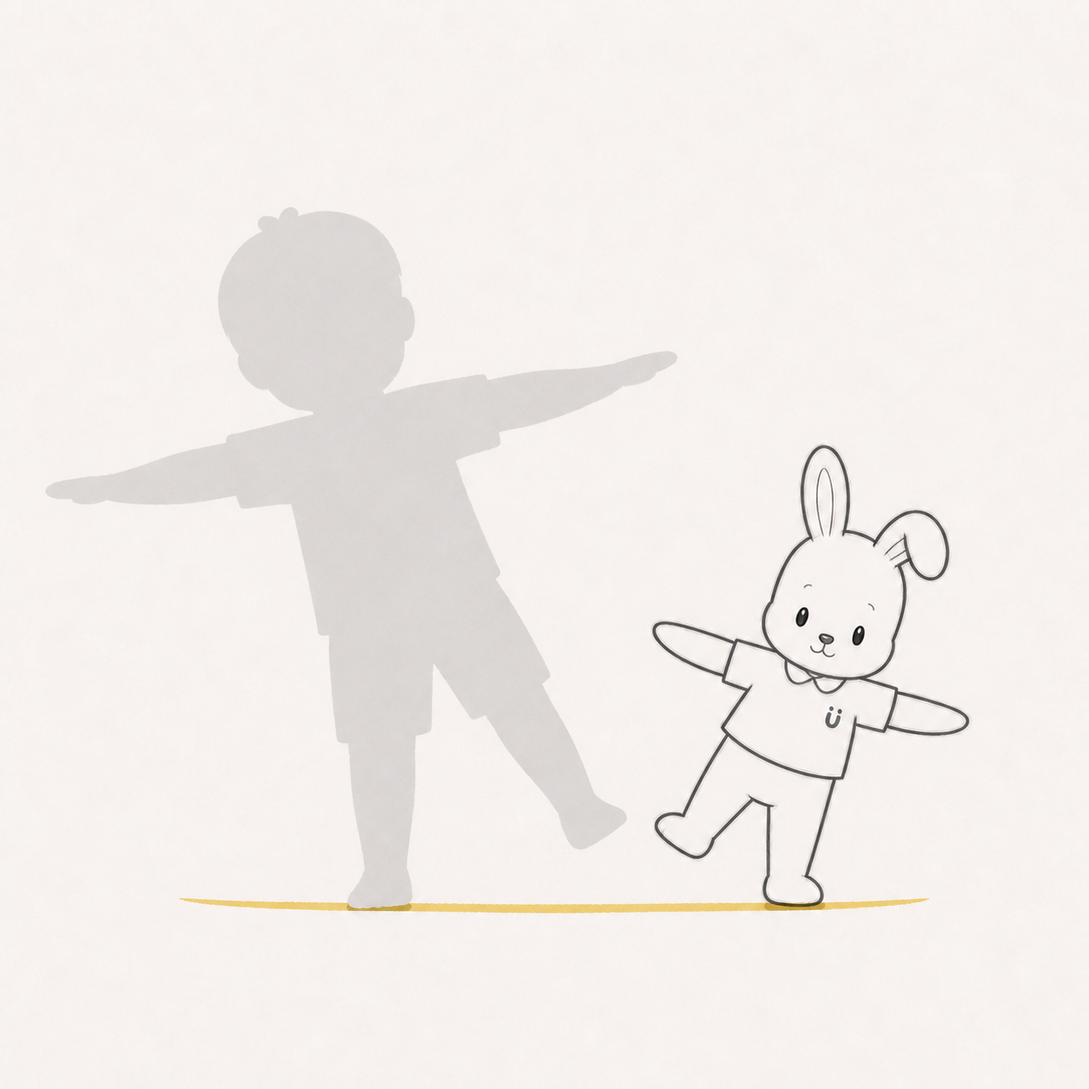
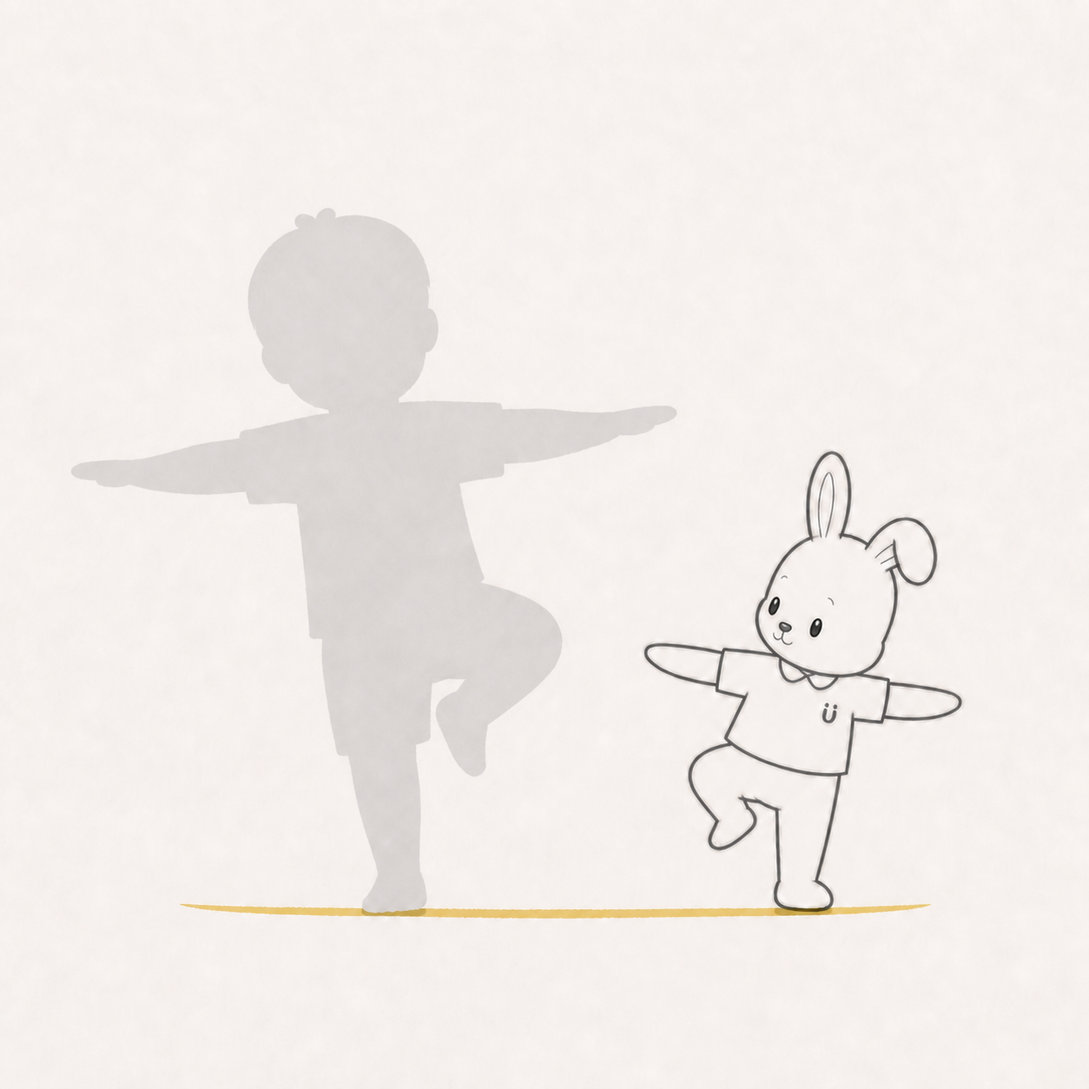
Expand participatory growth milestone scenes

diff --git a/planning/participatory-growth-frames/index.html b/planning/participatory-growth-frames/index.html
@@ -96,15 +96,19 @@
       </div>
       <div class="grid">
         <article><button class="visual"><img src="../participatory-growth-frame-studies/gen-frame-prone-dialogue.png" alt="うつ伏せの子どもと同じ高さで向き合うゲン"></button><div class="content"><span class="kind">LOW VIEW</span><h3>ひくいところで、こんにちは</h3><p class="scene">子どもがうつ伏せになると、ゲンも同じ高さへ。二人の視線が小さなボールで出会います。</p><p class="development"><strong>軽く見る発達</strong>うつ伏せで前腕を支えにする／頭を上げる／目の前の物を見る</p><p class="pose"><strong>写真の姿勢：</strong>うつ伏せ・頭を上げた横向きまたは正面</p></div></article>
+        <article><button class="visual"><img src="../participatory-growth-frame-studies/gen-frame-crawling-chase.png" alt="ハイハイで進む子どもが振り返るゲンを追いかける"></button><div class="content"><span class="role role-together">TOGETHER</span><span class="kind">CRAWL &amp; CHASE</span><h3>まって、ゲン</h3><p class="scene">子どもが手と膝で前へ進むと、ゲンも少し先を低い姿勢で進み、振り返ります。追いつくことより、同じ方向へ動く遊びを残します。</p><p class="development"><strong>二人の間で起きていること</strong>両手と両膝で身体を支える／手足を交互に出して進む／動く相手へ自分から近づく</p><p class="pose"><strong>写真の姿勢：</strong>手と膝を床につき、片膝を前へ出してゲンを見る。大人は撮影側</p></div></article>
         <article><button class="visual"><img src="../participatory-growth-frame-studies/gen-frame-seated-reach.png" alt="座って手を伸ばす子どもへゲンがリボンを返す"></button><div class="content"><span class="kind">REACH</span><h3>ここまで、とどいた</h3><p class="scene">伸ばした手の先へ、ゲンが短いリボンを返します。子どもの腕とゲンの腕が一本の線になります。</p><p class="development"><strong>軽く見る発達</strong>座った姿勢を保つ／斜めへ手を伸ばす／目と手を一緒に使う</p><p class="pose"><strong>写真の姿勢：</strong>座位・片手を斜め上へ伸ばす</p></div></article>
-        <article><button class="visual"><img src="../participatory-growth-frame-studies/gen-frame-balance-mirror.png" alt="片足でバランスをとる子どもとゲン"></button><div class="content"><span class="kind">BALANCE</span><h3>おなじ傾き</h3><p class="scene">子どもの身体の傾きを、ゲンが反対側から小さく返します。二人で一つの天秤になります。</p><p class="development"><strong>軽く見る発達</strong>片足へ体重を移す／腕でバランスをとる／姿勢を調整する</p><p class="pose"><strong>写真の姿勢：</strong>両腕を横へ・片足を少し上げる</p></div></article>
+        <article><button class="visual"><img src="../participatory-growth-frame-studies/gen-frame-balance-mirror.png" alt="子どもの片足立ちを隣でまねるゲン"></button><div class="content"><span class="kind">BALANCE &amp; IMITATE</span><h3>おなじ傾き</h3><p class="scene">子どもが片足を上げて両腕を広げると、ゲンも隣でその形をよく見て、同じ膝と腕の形を小さく返します。</p><p class="development"><strong>軽く見る発達</strong>片足へ体重を移す／腕でバランスをとる／相手の身体の動きを見てまねる</p><p class="pose"><strong>写真の姿勢：</strong>両腕を横へ広げ、片膝を曲げて片足で立つ。大人は撮影側</p></div></article>
         <article><button class="visual"><img src="../participatory-growth-frame-studies/gen-frame-ball-exchange.png" alt="足でボールを送り合う子どもとゲン"></button><div class="content"><span class="kind">BALL</span><h3>そっちへ、どうぞ</h3><p class="scene">子どもの足とゲンの足の間にボールを置き、送る・受け取るの往復をつくります。</p><p class="development"><strong>軽く見る発達</strong>片足で立つ／足を前へ出す／ボールへ足を合わせる</p><p class="pose"><strong>写真の姿勢：</strong>横向き・片足をボールへ向ける</p></div></article>
         <article><button class="visual"><img src="../participatory-growth-frame-studies/gen-frame-relax-looking-up.png" alt="仰向けで並んでくつろぐ子どもとゲン"></button><div class="content"><span class="kind">REST</span><h3>並んで空を見る</h3><p class="scene">何かを頑張る時間ではなく、同じ場所で一緒に休む時間を残します。</p><p class="development"><strong>軽く見る発達</strong>仰向けで身体を休める／視線を上へ向ける／安心して静かに過ごす</p><p class="pose"><strong>写真の姿勢：</strong>仰向け。手足の位置は自由</p></div></article>
+        <article><button class="visual"><img src="../participatory-growth-frame-studies/gen-frame-supine-feet-mirror.png" alt="仰向けで自分の足をつかむ子どもの隣で同じ形をまねるゲン"></button><div class="content"><span class="role role-milestone">MILESTONE</span><span class="kind">BODY DISCOVERY</span><h3>あし、みつけた</h3><p class="scene">子どもが仰向けで両足を手に取ると、隣のゲンも膝を胸へ寄せ、自分の足をつかんで同じ形を返します。</p><p class="development"><strong>この姿勢・動作で見えること</strong>股関節と膝を曲げる／手で自分の足をつかむ／身体の中央で手足を出会わせる</p><p class="pose"><strong>写真の姿勢：</strong>仰向けで両膝を胸へ寄せ、左右の手でそれぞれの足を持つ。大人は撮影側</p></div></article>
         <article><button class="visual"><img src="../participatory-growth-frame-studies/gen-frame-relax-leaning-together.png" alt="並んで座って寄りかかる子どもとゲン"></button><div class="content"><span class="kind">REST</span><h3>寄りかかって、ひと休み</h3><p class="scene">子どもが少し後ろへ寄りかかると、ゲンも同じ角度で隣へ座ります。</p><p class="development"><strong>軽く見る発達</strong>座る／手で身体を支える／自分に合う姿勢で休む</p><p class="pose"><strong>写真の姿勢：</strong>床座り・両手を後ろへ</p></div></article>
         <article><button class="visual"><img src="../participatory-growth-frame-studies/gen-frame-relax-watching-together.png" alt="うつ伏せで同じ小さな物を見る子どもとゲン"></button><div class="content"><span class="kind">CURIOSITY</span><h3>同じ小さなものを見る</h3><p class="scene">虫や葉っぱ、おもちゃなど、子どもの興味の先へゲンも並びます。</p><p class="development"><strong>軽く見る発達</strong>興味のある物を見続ける／同じ対象へ注意を向ける／楽な姿勢を選ぶ</p><p class="pose"><strong>写真の姿勢：</strong>うつ伏せ・頬や顎を手に置く</p></div></article>
         <article><button class="visual"><img src="../participatory-growth-frame-studies/gen-frame-follow-walking.png" alt="歩く子どもの後ろからついていくゲン"></button><div class="content"><span class="kind">FOLLOW</span><h3>歩く子どもの、二歩あと</h3><p class="scene">子どもが行き先を決め、ゲンは同じ方向へ後ろからついていきます。</p><p class="development"><strong>軽く見る発達</strong>前へ歩く／左右へ体重を移す／自分のペースで移動する</p><p class="pose"><strong>写真の姿勢：</strong>歩く後ろ姿。日常の写真をそのまま使える</p></div></article>
+        <article><button class="visual"><img src="../participatory-growth-frame-studies/gen-frame-child-leads-rabbit.png" alt="ゲンの手を引いて行きたい先へ導く子ども"></button><div class="content"><span class="role role-together">TOGETHER</span><span class="kind">LEAD BY HAND</span><h3>こっち、いっしょに</h3><p class="scene">子どもがゲンの手を取り、自分の行きたい方へ一歩先に進みます。ゲンは引き戻さず、子どもの示した方向へ一緒についていきます。</p><p class="development"><strong>二人の間で起きていること</strong>相手の手を取って意図を伝える／行き先を示す／相手がついてくることを確かめる</p><p class="pose"><strong>写真の姿勢：</strong>一歩前へ進み、片手を後ろへ伸ばしてゲンの手を引く。反対の手で行き先を示す。大人は撮影側</p></div></article>
         <article><button class="visual"><img src="../participatory-growth-frame-studies/gen-frame-follow-running.png" alt="走る子どもの後ろから追いかけるゲン"></button><div class="content"><span class="role role-milestone">MILESTONE</span><span class="kind">RUN TOGETHER</span><h3>走る子どもの、そのあとを</h3><p class="scene">子どもが先に駆け出すと、ゲンも少し後ろから同じ行き先へ。追い越さず、子どもの速さを楽しみながら追いかけます。</p><p class="development"><strong>この姿勢・動作で見えること</strong>腕と足を交互に動かす／地面を蹴って進む／走りながら姿勢を保つ</p><p class="pose"><strong>写真の姿勢：</strong>走る後ろ姿。肘を曲げ、片膝または後ろ足が上がった瞬間</p></div></article>
         <article><button class="visual"><img src="../participatory-growth-frame-studies/gen-frame-two-foot-jump.png" alt="両足で跳ぶ子どもの動きを追って跳ぶゲン"></button><div class="content"><span class="role role-milestone">MILESTONE</span><span class="kind">TWO-FOOT JUMP</span><h3>ぴょん、の少しあと</h3><p class="scene">子どもの両足が地面を離れたあと、ゲンも小さくぴょん。先に跳ぶ子どもの動きを、少し遅れて返します。</p><p class="development"><strong>この姿勢・動作で見えること</strong>両膝を曲げる／両足で地面を蹴る／空中と着地で姿勢を調整する</p><p class="pose"><strong>写真の姿勢：</strong>両足が同時に床を離れ、腕を上げた瞬間</p></div></article>
+        <article><button class="visual"><img src="../participatory-growth-frame-studies/gen-frame-dressing-sleeve.png" alt="自分で袖へ腕を通した子どもの手を見守るゲン"></button><div class="content"><span class="role role-milestone">MILESTONE</span><span class="kind">DRESSING</span><h3>おてて、でてきた</h3><p class="scene">子どもが自分で袖へ腕を通し、反対側から手が現れます。ゲンは手を貸さず、出てきた手と同じ高さで見守ります。</p><p class="development"><strong>この姿勢・動作で見えること</strong>袖口へ腕を向ける／反対の手で衣服を支える／手が出るまで腕を伸ばす</p><p class="pose"><strong>写真の姿勢：</strong>座って片腕を横へ伸ばし、もう一方の手で服の前を持つ。大人は撮影側</p></div></article>
         <article><button class="visual"><img src="../participatory-growth-frame-studies/gen-frame-follow-stairs.png" alt="階段を上る子どもの一段後ろをついていくゲン"></button><div class="content"><span class="kind">FOLLOW</span><h3>階段の、一段あと</h3><p class="scene">子どもが先に一段上り、ゲンは触れずに一段後ろから同じ速度で進みます。</p><p class="development"><strong>軽く見る発達</strong>段差へ足を上げる／片足で身体を支える／手すりを使って進む</p><p class="pose"><strong>写真の姿勢：</strong>安全な階段を上る後ろ姿</p></div></article>
         <article><button class="visual"><img src="../participatory-growth-frame-studies/cheer-frame-pause-before-trying.png" alt="低い遊具の一歩手前で止まる子どもと一緒に待つゲン"></button><div class="content"><span class="role role-cheer">CHEER</span><span class="kind">PAUSE</span><h3>一歩手前で、いっしょに見る</h3><p class="scene">子どもが遊具の前で止まると、ゲンも一歩後ろで止まります。進むことを勧めず、見ている時間を一緒に過ごします。</p><p class="development"><strong>この場面で守っていること</strong>近づく前に観察する／自分のタイミングを選ぶ／まだ進まない選択をする</p><p class="pose"><strong>写真の姿勢：</strong>低い遊具や段差の前で立ち止まる後ろ姿</p></div></article>
         <article><button class="visual"><img src="../participatory-growth-frame-studies/milestone-frame-pull-to-stand.png" alt="低い台につかまって立ち上がる子どもと見守るゲン"></button><div class="content"><span class="role role-milestone">MILESTONE</span><span class="kind">PULL TO STAND</span><h3>立てた手は、まだここに</h3><p class="scene">子どもが低い台へ手を置き、膝を伸ばそうとします。ゲンは反対側で同じ高さに立ちますが、身体や台には触れません。</p><p class="development"><strong>この姿勢・動作で見えること</strong>支持面へ手を置く／足へ体重を移す／膝と股関節を伸ばす</p><p class="pose"><strong>写真の姿勢：</strong>低く安定した台につかまり、立ち上がる途中または立位</p></div></article>
@@ -120,8 +124,10 @@
         <article><button class="visual"><img src="../participatory-growth-frame-studies/mimo-frame-shared-pointing.png" alt="子どもの指差した先を一緒に見るミモ"></button><div class="content"><span class="kind">SHARED LOOK</span><h3>みつけたものを、いっしょに</h3><p class="scene">子どもの指差しを受けて、ミモも同じ先を見ます。指先と二人の視線で三角形ができます。</p><p class="development"><strong>軽く見る発達</strong>指差す／視線と指を同じ方向へ向ける／面白い物を誰かと共有する</p><p class="pose"><strong>写真の姿勢：</strong>片腕を伸ばして指差す</p></div></article>
         <article><button class="visual"><img src="../participatory-growth-frame-studies/mimo-frame-show-and-receive.png" alt="子どもが見せた物を受け取るミモ"></button><div class="content"><span class="kind">SHOW</span><h3>「みて」を受け取る</h3><p class="scene">子どもが見せた物をミモは取らず、一緒に見ます。好きな物が二人をつなぎます。</p><p class="development"><strong>軽く見る発達</strong>好きな物を見せる／腕を相手へ伸ばす／同じ物へ注意を向ける</p><p class="pose"><strong>写真の姿勢：</strong>物を胸の前から相手へ差し出す</p></div></article>
         <article><button class="visual"><img src="../participatory-growth-frame-studies/mimo-frame-voice-pingpong.png" alt="子どもの声へ小さな声を返すミモ"></button><div class="content"><span class="kind">VOICE</span><h3>声のピンポン</h3><p class="scene">子どもの口から届いた音へ、ミモが小さく音を返します。声の大小より往復を見ます。</p><p class="development"><strong>軽く見る発達</strong>声を出す／笑う／喃語や音をまねる／交互にやりとりする</p><p class="pose"><strong>写真の姿勢：</strong>横顔または斜め顔・口が開いた瞬間</p></div></article>
+        <article><button class="visual"><img src="../participatory-growth-frame-studies/mimo-frame-wave-response.png" alt="手を振る子どもへ翼を上げて返すミモ"></button><div class="content"><span class="role role-together">TOGETHER</span><span class="kind">WAVE BACK</span><h3>ばいばい、かえってきた</h3><p class="scene">子どもが片手を振ると、ミモも向かい側で翼を上げます。画面の外の大人ではなく、ミモが挨拶の相手になります。</p><p class="development"><strong>二人の間で起きていること</strong>手のひらを相手へ向ける／身振りで挨拶する／返ってきた身振りを見る</p><p class="pose"><strong>写真の姿勢：</strong>立つ、または座って片手を顔の横へ。大人は撮影側</p></div></article>
         <article><button class="visual"><img src="../participatory-growth-frame-studies/mimo-frame-imitation-arms-up.png" alt="両腕を上げる子どもの姿を翼で返すミモ"></button><div class="content"><span class="role role-together">TOGETHER</span><span class="kind">IMITATE</span><h3>そのかたち、かえすよ</h3><p class="scene">子どもが両腕を上げると、ミモも向かい側で翼を上げます。子どもの動きから、二人の形が始まります。</p><p class="development"><strong>二人の間で起きていること</strong>相手の動きを見る／身体の形をまねる／動きを交互に返す</p><p class="pose"><strong>写真の姿勢：</strong>立つ、または座って両腕を斜め上へ伸ばす</p></div></article>
         <article><button class="visual"><img src="../participatory-growth-frame-studies/mimo-frame-hidden-find.png" alt="子どもが布を持ち上げて隠れていたミモを見つける"></button><div class="content"><span class="role role-milestone">MILESTONE</span><span class="kind">FIND</span><h3>めくった先に、いた</h3><p class="scene">子どもが布の端を持ち上げると、隠れていたミモが現れます。子どもの手で、見えなかった続きが開きます。</p><p class="development"><strong>この姿勢・動作で見えること</strong>隠れた物を探す／布の端をつかんで持ち上げる／見つけた相手へ注意を向ける</p><p class="pose"><strong>写真の姿勢：</strong>座る、または膝立ちで片手を前へ伸ばし、布の端を持つ</p></div></article>
+        <article><button class="visual"><img src="../participatory-growth-frame-studies/mimo-frame-pretend-feeding.png" alt="ごっこのスプーンをミモへ差し出す子ども"></button><div class="content"><span class="role role-together">TOGETHER</span><span class="kind">PRETEND PLAY</span><h3>ひとくち、どうぞ</h3><p class="scene">子どもが空のスプーンを差し出すと、ミモがその想像のひとくちを受け取ります。子どもの見立てから物語が始まります。</p><p class="development"><strong>二人の間で起きていること</strong>食べるふりをする／物へ別の意味を与える／役になってやりとりする</p><p class="pose"><strong>写真の姿勢：</strong>座ってスプーンを前へ差し出す。器は膝元。大人は撮影側</p></div></article>
       </div>
     </section>
 
@@ -135,6 +141,7 @@
         <article><button class="visual"><img src="../participatory-growth-frame-studies/luke-frame-release-drop.png" alt="子どもが手を離したボールの行き先を見るルーク"></button><div class="content"><span class="role role-milestone">MILESTONE</span><span class="kind">RELEASE</span><h3>はなしたら、どこへいく？</h3><p class="scene">子どもの開いた指から小さなボールが落ち、道を通ってルークの前へ。ルークは手を出さず、行き先を一緒に見ます。</p><p class="development"><strong>この姿勢・動作で見えること</strong>握った物を意図して離す／落ちる物を目で追う／原因と結果を確かめる</p><p class="pose"><strong>写真の姿勢：</strong>座って片腕を前へ。手のひらと指を開く</p></div></article>
         <article><button class="visual"><img src="../participatory-growth-frame-studies/luke-frame-shared-build.png" alt="崩れた積み木からもう一度作る子どものそばで待つルーク"></button><div class="content"><span class="role role-together">TOGETHER</span><span class="kind">BUILD &amp; TRY AGAIN</span><h3>くずれても、ここから</h3><p class="scene">崩れた積み木から、子どもが次の一個を選んで置きます。ルークは部品も答えも持たず、同じ高さで続きを待ちます。</p><p class="development"><strong>二人の間で起きていること</strong>積み木を置く／崩れたあとに試し直す／自分の方法で続きを作る</p><p class="pose"><strong>写真の姿勢：</strong>座る・膝立ちで、積み木を一つ持って中央へ置く</p></div></article>
         <article><button class="visual"><img src="../participatory-growth-frame-studies/luke-frame-shared-line.png" alt="子どもの描いた線を続けるルーク"></button><div class="content"><span class="kind">DRAW</span><h3>線のつづきは、こっち</h3><p class="scene">子どもの線を正さず、ルークがその先へ短い線を返して一つの輪を作ります。</p><p class="development"><strong>軽く見る発達</strong>クレヨンを握る／紙へ線を残す／手を動かして線を続ける</p><p class="pose"><strong>写真の姿勢：</strong>紙へクレヨンで線を描く手元</p></div></article>
+        <article><button class="visual"><img src="../participatory-growth-frame-studies/luke-frame-page-turn.png" alt="子どもがめくる一枚の先を待つルーク"></button><div class="content"><span class="role role-milestone">MILESTONE</span><span class="kind">PAGE TURN</span><h3>つぎのページは、その手から</h3><p class="scene">子どもが一枚だけつまんで持ち上げると、ルークは手を出さず、現れる続きを待ちます。</p><p class="development"><strong>この姿勢・動作で見えること</strong>ページの端をつまむ／一枚ずつ持ち上げる／反対の手で本を支える</p><p class="pose"><strong>写真の姿勢：</strong>座って本を開き、片手で一枚の端を持ち上げる。大人は撮影側</p></div></article>
       </div>
     </section>
 
@@ -160,14 +167,18 @@
     const developmentOrder = {
       gen: [
         'gen-frame-relax-looking-up.png',
+        'gen-frame-supine-feet-mirror.png',
         'gen-frame-prone-dialogue.png',
+        'gen-frame-crawling-chase.png',
         'gen-frame-relax-watching-together.png',
         'gen-frame-relax-leaning-together.png',
         'gen-frame-seated-reach.png',
         'milestone-frame-pull-to-stand.png',
         'gen-frame-follow-walking.png',
+        'gen-frame-child-leads-rabbit.png',
         'gen-frame-follow-running.png',
         'gen-frame-two-foot-jump.png',
+        'gen-frame-dressing-sleeve.png',
         'cheer-frame-pause-before-trying.png',
         'gen-frame-follow-stairs.png',
         'gen-frame-balance-mirror.png',
@@ -175,15 +186,18 @@
       ],
       mimo: [
         'mimo-frame-voice-pingpong.png',
+        'mimo-frame-wave-response.png',
         'mimo-frame-shared-pointing.png',
         'mimo-frame-show-and-receive.png',
         'mimo-frame-imitation-arms-up.png',
-        'mimo-frame-hidden-find.png'
+        'mimo-frame-hidden-find.png',
+        'mimo-frame-pretend-feeding.png'
       ],
       luke: [
         'luke-frame-tiny-discovery.png',
         'luke-frame-release-drop.png',
         'luke-frame-shared-line.png',
+        'luke-frame-page-turn.png',
         'luke-frame-shared-build.png'
       ],
       relationship: [

diff --git a/planning/growth-frame-balance-and-production-plan.md b/planning/growth-frame-balance-and-production-plan.md
@@ -27,7 +27,7 @@
 
 - ひくいところで、こんにちは
 - ここまで、とどいた
-- おなじ傾き
+- おなじ傾き（子どもの片足立ちをゲンが身体でまねる）
 - そっちへ、どうぞ
 - みつけたものを、いっしょに
 - 声のピンポン
@@ -104,6 +104,14 @@
 - 先生固有の道具は通常の線画で残せるが、子どもの動作を代行する物は持たせない。
 - 写真を入れたとき、影の物が実物に置き換わり、イラストと写真の小道具が二重にならないことを確認する。
 
+### 大人が画面に入るか
+
+- 子ども単独で動作が成立し、先生キャラクターが応答相手になれる場面では、大人は画面外の撮影者とする。
+- バイバイ、ごっこ遊び、着衣、ページめくりは、子ども一人の写真で完成させる。
+- 親子間の応答そのものが発達要素である「だっこして」「ここまで、おいで」「同じ食卓」は、大人も写真枠として画面へ入れる。
+- 介助が起こりやすい生活動作でも、子どもの主体的な一動作を切り出せる場合は、大人の手を描かない。
+- 大人が画面外の場合、子どもの行為に返事をする役割を先生へ明確に持たせ、子どもが一人で演技しているように見せない。
+
 ## development環境との照合
 
 ### 確認したデータ
@@ -128,16 +136,17 @@
 
 ### 現在の網羅傾向
 
-現在の28枚は、次の領域を比較的よく扱えている。
+現在の35枚は、次の領域を比較的よく扱えている。
 
-- 姿勢と移動: あおむけ、うつ伏せ、座る、立つ、歩く、階段、片足でのバランス
+- 姿勢と移動: あおむけでの休息と身体探索、うつ伏せ、座る、立つ、歩く、階段、片足でのバランス
 - 共同注意と意図共有: 指差し、同じ物を見る、好きな物を見せる
-- 初期コミュニケーション: 声を出す、笑う、喃語や音を返す
-- 手元の操作: つまむ、意図して離す、描く、積む、スプーンを使う
-- 模倣と探索: 相手の動きをまねる、隠れた相手を探す、原因と結果を確かめる
+- 初期コミュニケーション: 声を出す、笑う、喃語や音を返す、身振りで挨拶する
+- 手元の操作: つまむ、意図して離す、描く、積む、スプーンを使う、一枚ずつページをめくる
+- 模倣と探索: 相手の動きをまねる、隠れた相手を探す、原因と結果を確かめる、ごっこの意味を作る
+- 生活動作: 自分で食べる、袖へ腕を通す
 - 関係の発達: 求める、応える、差し出す、待つ、助けを提案する、協働する
 
-一方で、乳児初期の身体探索、物を離す操作、模倣、象徴遊び、生活動作にはまとまった空白がある。共同注意や歩行をさらに細分化するより、まずこの空白を補う方がシリーズ全体の代表性が高まる。
+一方で、寝返り、自己調整、感覚遊び、言葉の発達にはまとまった空白がある。共同注意や歩行をさらに細分化するより、まずこの空白を補う方がシリーズ全体の代表性が高まる。
 
 ## 次期カードで優先したい category_stage
 
@@ -177,15 +186,19 @@
 - まねっこと愛着: 「そのかたち、かえすよ」
 - 運ぶ・離す: 「はなしたら、どこへいく？」
 - 隠れた物を探す: 「めくった先に、いた」
+- ジェスチャー・サイン: 「ばいばい、かえってきた」
+- ごっこ遊び: 「ひとくち、どうぞ」
+- 着衣スキル: 「おてて、でてきた」
+- 道具操作: 「つぎのページは、その手から」
 
-加えて、次点だった走る・ジャンプから「走る子どもの、そのあとを」「ぴょん、の少しあと」を制作した。次の制作では、ジェスチャー・サイン、ごっこ遊び、着衣スキルを優先する。
+加えて、次点だった走る・ジャンプから「走る子どもの、そのあとを」「ぴょん、の少しあと」、あおむけの身体探索から「あし、みつけた」を制作した。第一候補の6段階は一巡したため、次は自己調整、感覚遊び、寝返りを検討する。
 
 ### 次点候補
 
 | category_stage | 補足 |
 |---|---|
 | 走る・ジャンプ | 自由に走る場面と両足で跳ぶ場面を追加済み |
-| あおむけ | 休息のカードはあるが、両手が中央で出会う、足を触る、寝返るという身体探索は未表現 |
+| あおむけ | 両手で足をつかむ身体探索は追加済み。寝返りは未表現 |
 | 自己調整・ルール | 他児を待つ場面はあるが、止まる、我慢する、自分で落ち着く過程は未表現 |
 | 感覚遊び | 小さな物を見る場面はあるが、砂、水、粘土、異なる質感へ触れる探索はない |
 | 一語文・二〜三語文 | 声の往復はあるが、意味のある言葉や語の組み合わせはない。静止画より動画テンプレート向き |
@@ -206,33 +219,40 @@
 ### ゲン｜姿勢と移動
 
 1. 並んで空を見る（あおむけ・休む）
-2. ひくいところで、こんにちは（うつ伏せ・頭を上げる）
-3. 同じ小さなものを見る（うつ伏せ・姿勢保持・注視）
-4. 寄りかかって、ひと休み（座位・手で支える）
-5. ここまで、とどいた（座位を保って手を伸ばす）
-6. 立てた手は、まだここに（つかまり立ち）
-7. 歩く子どもの、二歩あと（歩行）
-8. 走る子どもの、そのあとを（走行・腕と足の交互運動）
-9. ぴょん、の少しあと（両足ジャンプ）
-10. 一歩手前で、いっしょに見る（移動後に止まる・判断する）
-11. 階段の、一段あと（段差昇降）
-12. おなじ傾き（片足荷重・バランス）
-13. そっちへ、どうぞ（片足支持とボール操作）
+2. あし、みつけた（あおむけ・手足を身体の中央で出会わせる）
+3. ひくいところで、こんにちは（うつ伏せ・頭を上げる）
+4. まって、ゲン（手と膝で進む・動く相手へ近づく）
+5. 同じ小さなものを見る（うつ伏せ・姿勢保持・注視）
+6. 寄りかかって、ひと休み（座位・手で支える）
+7. ここまで、とどいた（座位を保って手を伸ばす）
+8. 立てた手は、まだここに（つかまり立ち）
+9. 歩く子どもの、二歩あと（歩行）
+10. こっち、いっしょに（ゲンの手を取り、自分の意図へ導く）
+11. 走る子どもの、そのあとを（走行・腕と足の交互運動）
+12. ぴょん、の少しあと（両足ジャンプ）
+13. おてて、でてきた（着衣・袖へ腕を通す）
+14. 一歩手前で、いっしょに見る（移動後に止まる・判断する）
+15. 階段の、一段あと（段差昇降）
+16. おなじ傾き（片足荷重・バランス・身体模倣）
+17. そっちへ、どうぞ（片足支持とボール操作）
 
 ### ミモ｜声から意図共有へ
 
 1. 声のピンポン（声の往復）
-2. みつけたものを、いっしょに（指差し・共同注意）
-3. 「みて」を受け取る（物を介した意図共有）
-4. そのかたち、かえすよ（身体模倣）
-5. めくった先に、いた（隠れた物を探す）
+2. ばいばい、かえってきた（ジェスチャー・サイン）
+3. みつけたものを、いっしょに（指差し・共同注意）
+4. 「みて」を受け取る（物を介した意図共有）
+5. そのかたち、かえすよ（身体模倣）
+6. めくった先に、いた（隠れた物を探す）
+7. ひとくち、どうぞ（ごっこ遊び）
 
 ### ルーク｜手元の操作から構成へ
 
 1. その小さなもの、発見（つまむ・観察する）
 2. はなしたら、どこへいく？（意図して離す・落下を追う）
 3. 線のつづきは、こっち（道具を持ち、痕跡を残す）
-4. くずれても、ここから（構成する・崩れた後に再試行する）
+4. つぎのページは、その手から（一枚ずつページをめくる）
+5. くずれても、ここから（構成する・崩れた後に再試行する）
 
 ### 関係の中で育つ｜安心から協働へ
 
